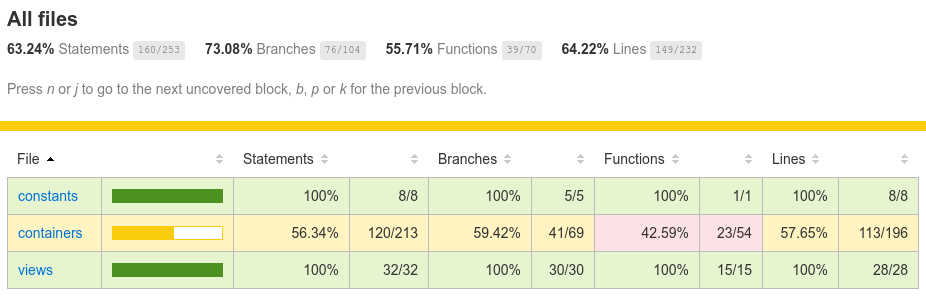
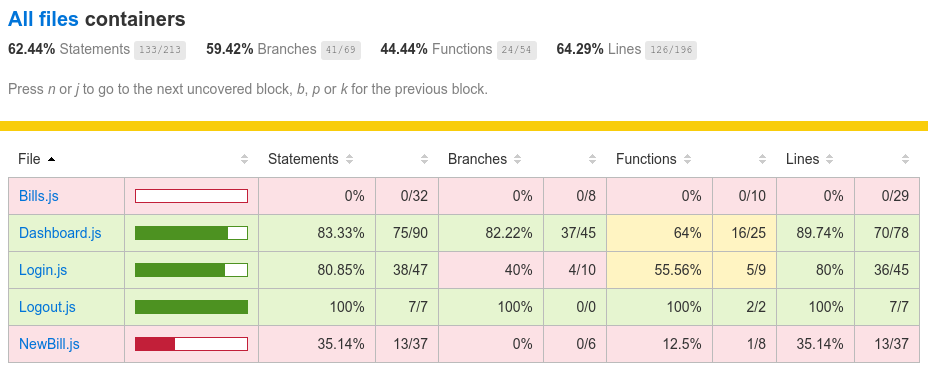
test VerticalLayout

diff --git a/src/__tests__/VerticalLayout.js b/src/__tests__/VerticalLayout.js
@@ -1,19 +1,44 @@
 import { screen } from "@testing-library/dom"
-import VerticalLayout from "../views/VerticalLayout"
-import { localStorageMock } from "../__mocks__/localStorage.js"
-
-
-describe('Given I am connected as Employee', () => {
-  test("Then Icons should be rendered", () => {
-    Object.defineProperty(window, 'localStorage', { value: localStorageMock })
-    const user = JSON.stringify({
-      type: 'Employee'
-    })
-    window.localStorage.setItem('user', user)
-    const html = VerticalLayout(120)
-    document.body.innerHTML = html
-    expect(screen.getByTestId('icon-window')).toBeTruthy()
-    expect(screen.getByTestId('icon-mail')).toBeTruthy()
+import router from "../app/Router.js"
+import {setLocalStorage} from "../../setup-jest";
+setLocalStorage('Employee')
+jest.mock("../containers/Bills.js", () => {
+    return jest.fn().mockImplementation(function () {
+      return {getBills: async function () {
+        return [];
+        },
+      }
   })
+})
 
+describe("Given I am connected as Employee", () => {
+  describe("When I am on NewBill Page", () => {
+    Object.defineProperty(window, "location", { value: { hash: "#employee/bill/new" } })
+    document.body.innerHTML = `<div id="root"></div>`
+    router()
+    test("Then Icons should be rendered", () => {
+      expect(screen.getByTestId("icon-window")).toBeTruthy()
+      expect(screen.getByTestId("icon-mail")).toBeTruthy()
+    })
+    test("Then Newbill icon in vertical layout should be highlighted", () => {
+      expect(screen.getByTestId("icon-window").classList.contains("active-icon")).not.toBeTruthy()
+      expect(screen.getByTestId("icon-mail").classList.contains("active-icon")).toBeTruthy()
+    })
+  })
+  describe("When I am on Bills Page", () => {
+    Object.defineProperty(window, "location", { value: { hash: "#employee/bills" } })
+    document.body.innerHTML = `<div id="root"></div>`
+    router()
+    test("Then Icons should be rendered", async () => {
+      expect(screen.getByTestId("icon-window")).toBeTruthy()
+      expect(screen.getByTestId("icon-mail")).toBeTruthy()
+    })
+    test("Then bill icon in vertical layout should be highlighted", () => {
+      // WHY ????????
+      window.location.hash = "#employee/bills";
+      router()
+      expect(screen.getByTestId("icon-window").classList.contains("active-icon")).toBeTruthy()
+      expect(screen.getByTestId("icon-mail").classList.contains("active-icon")).not.toBeTruthy()
+    })
+  })
 })

diff --git a/src/__tests__/Bills.js b/src/__tests__/Bills.js
@@ -5,11 +5,6 @@ import { bills } from "../fixtures/bills.js"
 describe("Given I am connected as an employee", () => {
   describe("When I am on Bills Page", () => {
     describe("and there are Bills", () => {
-      test("Then bill icon in vertical layout should be highlighted", () => {
-        const html = BillsUI({ data: []})
-        document.body.innerHTML = html
-        //to-do write expect expression
-      })
       test("Then bills should be ordered from earliest to latest", () => {
         const html = BillsUI({ data: bills })
         document.body.innerHTML = html
@@ -21,15 +16,15 @@ describe("Given I am connected as an employee", () => {
     })
     describe("But it is loading", () => {
       test("Then, Loading page should be rendered", () => {
-        document.body.innerHTML = BillsUI({ loading: true });
-        expect(screen.getAllByText("Loading...")).toBeTruthy();
-      });
-    });
+        document.body.innerHTML = BillsUI({ loading: true })
+        expect(screen.getAllByText("Loading...")).toBeTruthy()
+      })
+    })
     describe("But an error occure", () => {
       test("Then, Error page should be rendered", () => {
-        document.body.innerHTML = BillsUI({ error: "oops an error" });
-        expect(screen.getAllByText("Erreur")).toBeTruthy();
-      });
-    });
+        document.body.innerHTML = BillsUI({ error: "oops an error" })
+        expect(screen.getAllByText("Erreur")).toBeTruthy()
+      })
+    })
   })
 })

diff --git a/setup-jest.js b/setup-jest.js
@@ -1,2 +1,8 @@
 import $ from 'jquery';
 global.$ = global.jQuery = $;
+
+import {localStorageMock} from "./src/__mocks__/localStorage";
+export function setLocalStorage (user) {
+    Object.defineProperty(window, 'localStorage', { value: localStorageMock })
+    window.localStorage.setItem('user', JSON.stringify({ type: user }))
+}
